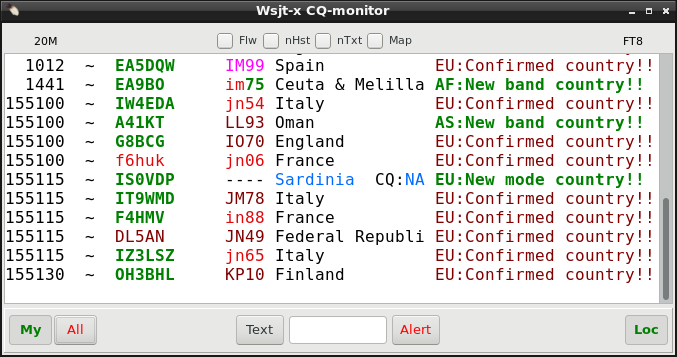
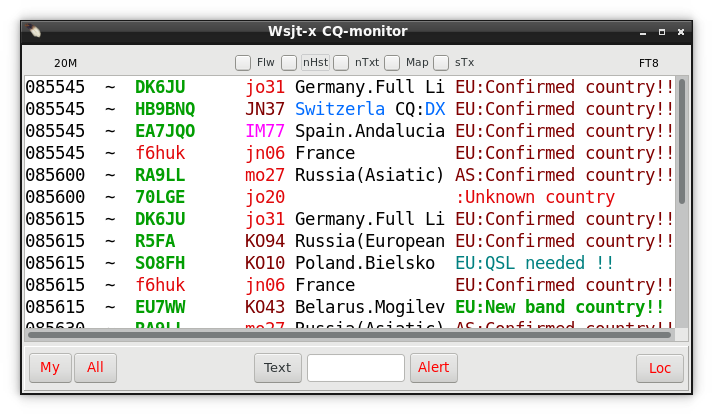
CQ-monitor+Wsjtx Map: stop TX checkbox for sply answer to CQ. +Help update

diff --git a/help/wsjt.html b/help/wsjt.html
@@ -69,12 +69,15 @@ Only remote logging and call qrz/hamqth seek are used then.
 </img>
 <img src="img/wsjt23.png" name="22" width="353" height="282">
 </img></p>
-Top line will show band and mode that is in use, Checking <b>"no history”</b> will clean monitor on every decoded RX-period.
+Top line will show band and mode that is in use, Checking <b>"noHst”</b> (no history) will clean monitor on every decoded RX-period.
 </br>Timestamp and mode letter at the start of line are also replaced by DeltaFrequency (waterfall position of station) and Snr dB value 
  then, as no history is collected and so time stamp has no meaning.
-</br>If there are no CQ lines during period then old monitor lines will turn to silver gray indicating that right period of possible answer is passed. This happens ONLY if <b>"no history”</b> is checked. If not, colors stay as they are.
+</br>If there are no CQ lines during period then old monitor lines will turn to silver gray indicating that right period of possible answer is passed. This happens ONLY if <b>"noHst”</b> is checked. If not, colors stay as they are.
 </br>CQ-lines turning to silver gray does not disable double click answering property. It is just informative color change. 
 </br>If not checked form will show also older CQs (scrolling) to see what you missed while having a coffee break :). Only 20 lines, how ever.
+</br></br>Checking <b>"sTx”</b> (Stop TX) will fix missing Wsjt-x property: If you answer to someone's CQ at same frequency Wsjt-x will stop your TX if CQ-caller answers to someone else than you. How ever Wsjt-x developing team has
+ decided that if you anśwer to CQ caller on other frequency (split) your TX remains on even if the answer was directed to someone else.
+ To reduce band QRM caused by you, you may check <b>sTx</b> to stop your TX if answer was not for you. This requires that you have initiated answering by doubleclicking a line of CQ-monitor or Wsjtx-Map.
 
 <p ><img src="img/wsjt20.png" name="20" width="353" height="83">
 </img>
